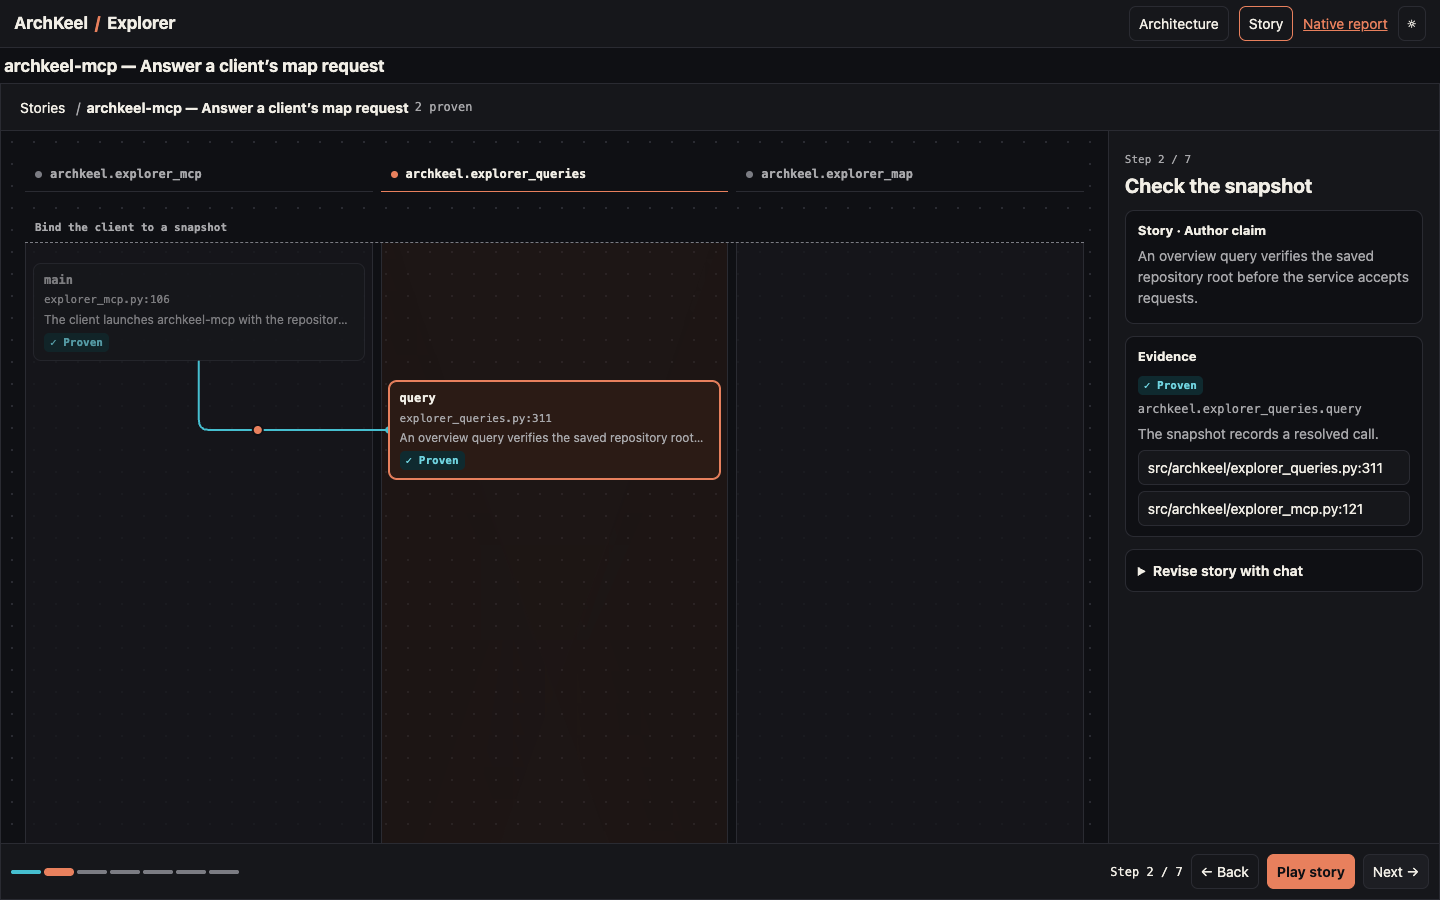
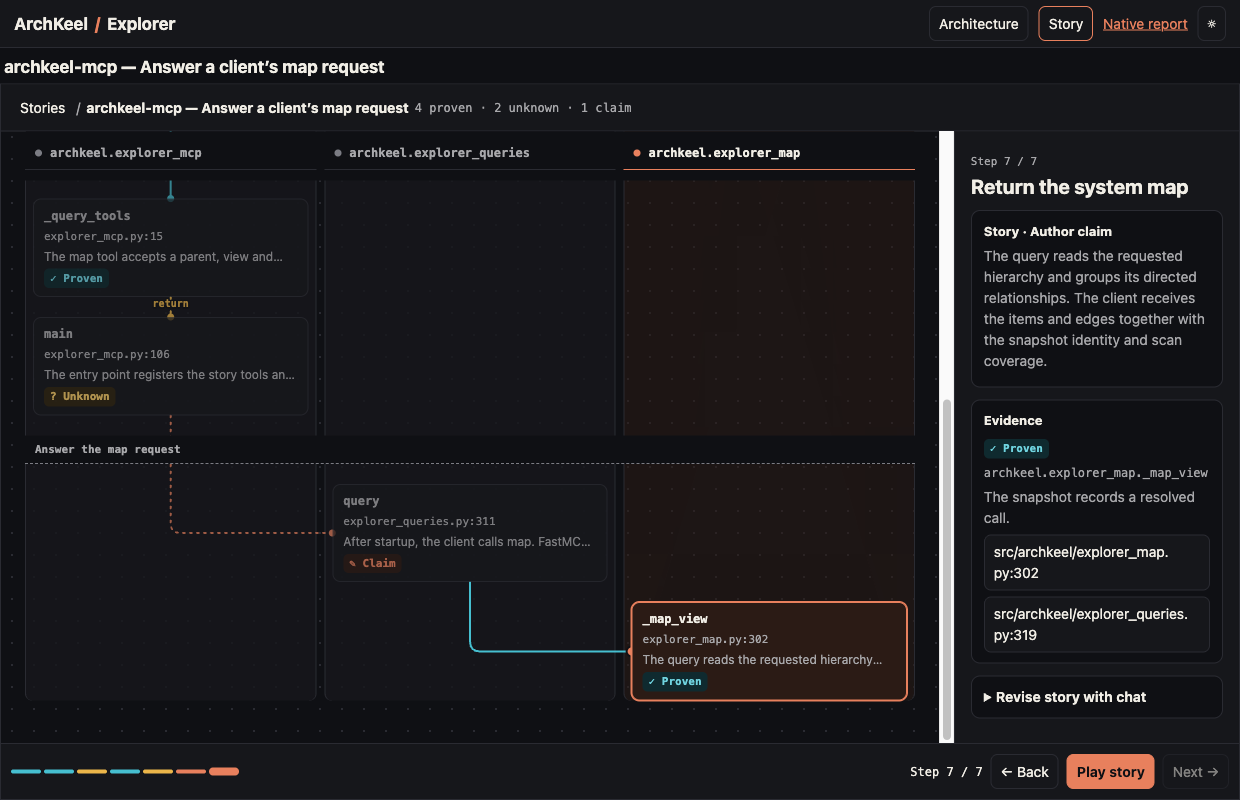
Show Studio workflows and the DATAMIMIC CE benchmark

diff --git a/README.md b/README.md
@@ -6,9 +6,9 @@
 
 **See what your code really does. Check it against what you decided.**
 
-ArchKeel maps imports and calls in your repository and checks it against the boundaries you declare
-in an architecture contract. Open a dependency to see its source. Run the same checks in CI to
-find out when a change crosses a boundary.
+Explore a repository in Studio. Follow an import or a call to the source line that supports it.
+Add an architecture contract to check which components may depend on each other.
+Developers can inspect the evidence in the browser, CI reads the exit code, and agents can query the same snapshot.
 
 [![CI](https://github.com/rapiddweller/archkeel/actions/workflows/ci.yml/badge.svg)](https://github.com/rapiddweller/archkeel/actions/workflows/ci.yml)
 [![ArchKeel self-check](https://img.shields.io/endpoint?url=https://rapiddweller.github.io/archkeel/self/badge.json&labelColor=141414)](https://rapiddweller.github.io/archkeel/self/index.html)
@@ -24,21 +24,21 @@ including the [Rust core](https://rapiddweller.github.io/archkeel/self/core.html
 or [browse the examples](https://rapiddweller.github.io/archkeel/showcase/index.html).
 These published reports follow `main`. The Studio pictures below come from this checkout.
 
-<img src="docs/assets/studio-architecture.png" alt="ArchKeel Studio showing the architecture of its own source, with the Python shell, Rust core and TypeScript Studio UI." width="100%">
+<img src="docs/assets/studio-architecture.png" alt="Studio shows ArchKeel’s Python shell, Rust core and TypeScript UI. The arrow from the shell to the core names their declared frame protocol." width="100%">
 
-[Try Studio](#quick-start) · [Install](#install) · [CLI reference](docs/reference.md) · [Connect an agent](docs/explorer.md#connect-an-agent)
+[Try Studio](#quick-start) · [Check a contract](#check-a-contract) · [Compare CLI performance](#performance) · [Connect an agent](docs/explorer.md#connect-an-agent)
 
 ## Why ArchKeel?
 
 | If you are… | Start with a question | Follow the evidence |
 | --- | --- | --- |
-| A developer | What depends on the module I am changing? | Select the module in Studio. Follow an incoming import back to the file and line. |
-| An architect | Does this dependency cross a boundary we agreed on? | Inspect the observed import, then check the declared rule with `archkeel validate`. |
-| A coding agent | Which source line supports this conclusion? | Query the same snapshot over MCP. Follow a relation to its evidence and read the source. |
+| A developer | What depends on the module I am changing? | Select the module and follow an incoming import to its file and line. [Studio walkthrough](docs/explorer.md#follow-a-dependency-to-source) |
+| An architect | Does this dependency cross an agreed boundary? | Inspect the import and check the declared rule with `archkeel validate`. [Contract guide](docs/onboarding.md) |
+| A coding agent | Which source line supports this conclusion? | Query the snapshot over MCP. Follow the relation to its evidence and read the source. [Snapshot queries](docs/explorer.md#query-a-snapshot) |
 
-An arrow `A → B` means **A imports B** or **A calls B**, according to the edge label.
-An import establishes a static dependency. A call with an unresolved target stays visible in the
-coverage counts. Neither establishes that a path ran in production.
+Read an import or call arrow from source to target. **A imports B** identifies a static
+dependency. **A calls B** identifies a call whose target the collector can prove.
+**A may call B** links a Python call site to a candidate declaration you can inspect.
 
 ## Quick start
 
@@ -56,7 +56,7 @@ own Git repository, replace `.` with its path. Studio can build a map without a 
 For a guided example, choose **Story** and play the MCP map request. Its module lanes follow
 the agent’s request from the MCP server into the snapshot query. Pause on a step to inspect its evidence.
 
-<img src="docs/assets/studio-story.png" alt="Studio story playback with module lanes, a selected step and its source evidence." width="100%">
+<img src="docs/assets/studio-story.png" alt="The final MCP story step, Return the system map, shows the call from explorer_queries.query to explorer_map._map_view and both source locations." width="100%">
 
 ## Check a contract
 
@@ -99,15 +99,15 @@ gets JSON. The Rust core decides the verdict. An LLM can propose a story or expl
 
 ## Performance
 
-On **DATAMIMIC Community Edition**, the median time for `archkeel validate` was **27.93 s**
-with 4.0.1 and **1.18 s** with the unreleased Rust core (23.7× as fast for this command).
-Both scanned all **540 Python files**
-in the production package and passed the benchmark's ownership rule. The overall verdicts differed:
-4.0.1 returned PASS, while the Rust core returned UNKNOWN and reported 59 collection gaps.
+**27.93 s → 1.18 s** median time to check package ownership on **DATAMIMIC Community Edition**.
+The 5.0 development build with the Rust core ran this command **23.7× as fast** as 4.0.1.
+Both scanned the same 540 Python files, with 3,169 function and method definitions and 748 class definitions.
 
 <img src="docs/assets/cli-validation-time.png" alt="DATAMIMIC CE median validation time: 27.93 seconds with ArchKeel 4.0.1, 1.18 seconds with the Rust-core development build." width="100%">
 
-[Benchmark contract, timings and reproduction steps](docs/performance.md)
+Both builds passed the ownership rule. The overall verdict was PASS in 4.0.1 and UNKNOWN in the Rust build, which reported 59 collection gaps.
+In a separate scan of the same CE source, Studio linked **3,548 call sites to 1,183 candidate declarations**.
+Each link opens the call and its possible target. [Call counts, source examples and reproduction steps](docs/performance.md)
 
 ## Install
 

diff --git a/docs/performance.md b/docs/performance.md
@@ -19,10 +19,56 @@ was unchanged.
 | 4.0.1, Python engine | 27.93 s | 27.88–28.25 s | PASS | PASS, exit 0 |
 | 5.0.0-dev, Rust core | 1.18 s | 1.17–1.19 s | PASS | UNKNOWN, exit 2 |
 
-The Rust core reported 59 collection gaps across the scan. They include both a runtime
-`eval(expression, …)` and a false alarm on the string comparison `token == "__import__"`. The two commands therefore answer
-the same ownership question but report different overall coverage. This timing does not predict
-the cost of evaluating CE's full contract.
+The Rust core reported 59 collection gaps, including a runtime `eval(expression, …)`
+and a comparison with `"__import__"`. The comparison is a gap in what the collector
+can prove. It does not establish that CE executed a dynamic import.
+
+### What the two builds resolve
+
+The input contains 748 class definitions, 3,169 function and method definitions
+(including 16 async definitions), and 3,408 import statements, counted from Python's AST.
+One import statement can name several targets. The timed reports do not supply a
+comparable count of resolved module-to-module import edges.
+
+| Call-site inventory reported by each build | 4.0.1 | 5.0.0-dev |
+| --- | ---: | ---: |
+| Total counted | 14,744 | 16,391 |
+| Reported as resolved | 11,140 | 0 |
+| Partially resolved | 2,187 | 0 |
+| Classified separately as builtin / external | No separate counts | 4,052 / 1,465 |
+| Unresolved | 1,417 | 10,874 |
+
+Python's AST contains 14,744 explicit call expressions. The Rust collector also counts
+1,647 implicit decorator applications. Together they account for all 16,391 sites.
+
+The 4.0.1 collector marked 11,140 sites as resolved. Of their target names, 4,594 start
+with `builtins.`, 4,917 start with `datamimic_ce.`, and 1,629 have another prefix.
+Within those 4,917 CE sites, 4,181 records include a source reference for the target. The other 736 lack that reference.
+Each number counts call sites. Several sites can point to the same definition.
+The Rust build reports builtin and external calls separately.
+
+Two calls in this CE revision illustrate the difference between a name and a definition.
+
+| Call in CE | What the source shows |
+| --- | --- |
+| [`IssueDefinition(...)`](https://github.com/rapiddweller/datamimic/blob/e1000a6eef55ae4d710c923116d6551f19436d53/datamimic_ce/errors/catalog/task_errors.py#L6-L12) | The import names a [class defined in CE](https://github.com/rapiddweller/datamimic/blob/e1000a6eef55ae4d710c923116d6551f19436d53/datamimic_ce/errors/catalog/definition.py#L14). |
+| [`logger.debug(...)`](https://github.com/rapiddweller/datamimic/blob/e1000a6eef55ae4d710c923116d6551f19436d53/datamimic_ce/engine/runtime/tasks/flow/commands/echo_task.py#L27) | 4.0.1 gives the target a CE name. CE obtains [`logger` from `logging.getLogger`](https://github.com/rapiddweller/datamimic/blob/e1000a6eef55ae4d710c923116d6551f19436d53/datamimic_ce/engine/runtime/logging.py#L84). The binding alone leaves the implementation of `debug` open. |
+
+### Follow-up on the same CE source
+
+A separate Studio scan linked **3,548 call sites to 1,183 candidate declarations**.
+Of those sites, **1,873** point into another module. **325** refer to methods on a receiver.
+All 3,548 matched the qualified target that 4.0.1 reported at the same explicit call.
+The declaration locations also matched definitions in CPython's AST.
+
+The updated collector classified 156 more sites as builtin calls, for **4,208 builtins**
+and **10,718 unresolved**. It still reported 59 collection gaps and zero proven internal calls.
+CE's installation check inspects `sys.modules` outside the production scan root.
+ArchKeel conservatively treats all 540 modules as exposed to possible writes.
+This describes an assumption about bindings. See the [CE installation check](https://github.com/rapiddweller/datamimic/blob/e1000a6eef55ae4d710c923116d6551f19436d53/script/check_installed_authoring.py#L114-L136).
+
+The Studio scan measures source navigation. The CLI timings above apply to the earlier
+development build at `858cb6905`.
 
 ## Smaller fixtures
 

diff --git a/docs/explorer.md b/docs/explorer.md
@@ -16,16 +16,23 @@ uv run archkeel studio --config docs/architecture/architecture-system.json
 ```
 
 Keep the terminal open while you use the browser. Use `--no-open` to print the local
-address. Open a group to inspect its children. The module map shows small branches inside
-their parent frames. Large branches stay closed until you open them. Select a module
-to follow its incoming and outgoing arrows. Choose **Groups** to see which modules
-belong together. Use a horizontal or vertical flow to follow a dependency.
-Read each arrow from its source to its target. For an import, the source imports the
-target module. For a call, the source calls the target. An UNKNOWN call target has no
-arrow. The unresolved count is part of the recorded call sites in that scope.
-Select a group edge to inspect its contributing relations. Select evidence to open
-the source line. Several imports can contribute to one relation between two modules. A source line
-can import more than one name. The import count can exceed the number of source lines.
+address.
+
+## Follow a dependency to source
+
+1. Choose **Groups** to see the module hierarchy. Open a large group to see its children. Small branches appear inside their parent.
+2. Select a module to highlight its incoming and outgoing edges. Choose **Flow →** or **Flow ↓** to change the layout.
+3. Read the arrow toward its tip. `A → B` labelled **Import** means A imports B. **Call** means A calls B.
+4. Select an edge between two groups. The inspector lists the underlying relations. Select a source reference to open its file and line.
+
+A line can import several names. An import count can exceed the number of source lines.
+A call with an unknown target contributes to the unresolved count.
+For a Python call with a matching source declaration, Studio can show **Call target · Candidate**.
+Open its **Call site** and **Declaration** references to inspect both ends.
+The source identifies a possible binding. Python can select another target at runtime.
+
+<img src="assets/studio-call-candidate.png" alt="Studio links a call to IssueDefinition at task_errors.py line 11 to its class declaration at definition.py line 14." width="360">
+
 The unresolved call count can include built-ins, library calls and dynamic calls. A zero count of
 recorded sites does not establish call coverage. The arrows do not track values.
 Each result includes its snapshot identity and the coverage of the scan.
@@ -97,5 +104,7 @@ names and element IDs. Every response identifies the snapshot and its coverage.
 | story | ID of a call edge | One static call step with its evidence, or UNKNOWN |
 
 Lists use a stable ID cursor. Pass the returned `next_cursor` to get the next page.
+For Python source candidates, filter `relations` by `kind=source_call`. Each record has
+`resolution=candidate`. Its evidence identifies the `call_site` and the `declaration`.
 Coverage applies to the selected scan. A null collector section means that this build
 does not supply that fact type. An empty section means the collector supplied zero rows.

diff --git a/docs/README.md b/docs/README.md
@@ -12,6 +12,7 @@ this checkout. The Python engine documentation is at the
 | Use the CLI and read its exit codes | [Reference](reference.md) |
 | Define a constraint | [Rules](rules.md) |
 | Understand missing evidence | [Known limits](known-limits.md) |
+| Compare the Python engine and Rust core on DATAMIMIC CE | [CLI timing and call resolution](performance.md) |
 | Read what changed | [Release notes](../RELEASE_NOTES.md) |
 
 Reports check declared constraints. Read FAIL and UNKNOWN before accepting a change.
